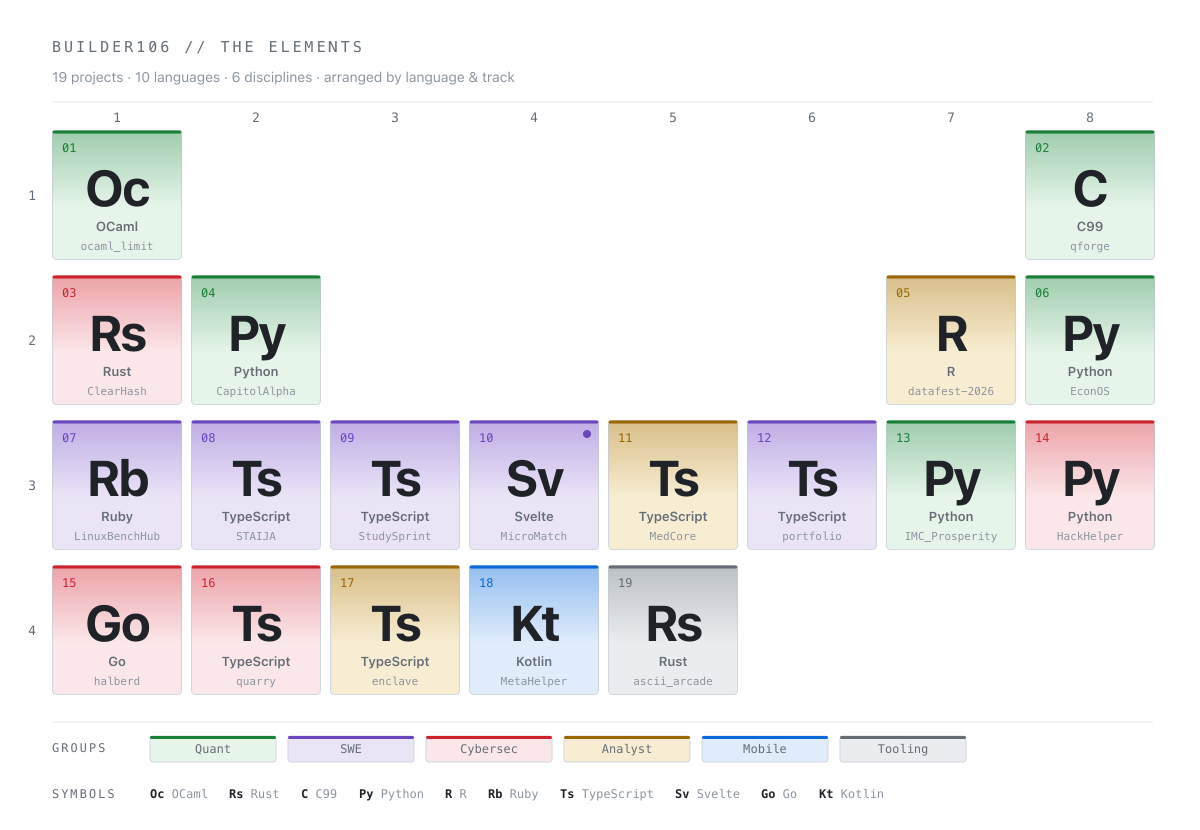
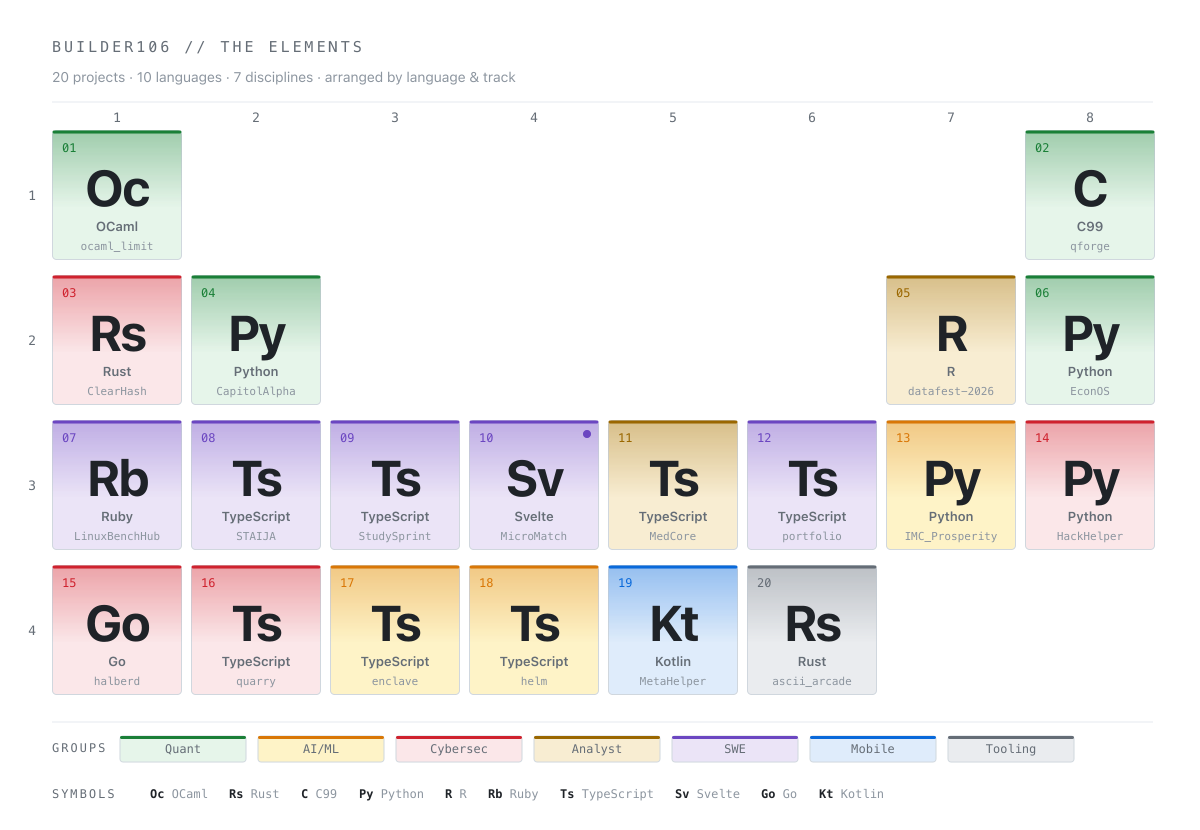
Categorize enclave, helm, and IMC_Prosperity under AI/ML discipline

diff --git a/assets/gen_cells.py b/assets/gen_cells.py
@@ -26,13 +26,14 @@ CELLS = [
     (2, 3, 10, "Sv", "Svelte",     "MicroMatch",     "W"),
     (2, 4, 11, "Ts", "TypeScript", "MedCore",        "A"),
     (2, 5, 12, "Ts", "TypeScript", "portfolio",      "W"),
-    (2, 6, 13, "Py", "Python",     "IMC_Prosperity", "Q"),
+    (2, 6, 13, "Py", "Python",     "IMC_Prosperity", "L"),
     (2, 7, 14, "Py", "Python",     "HackHelper",     "Y"),
     (3, 0, 15, "Go", "Go",         "halberd",        "Y"),
     (3, 1, 16, "Ts", "TypeScript", "quarry",         "Y"),
-    (3, 2, 17, "Ts", "TypeScript", "enclave",        "A"),
-    (3, 3, 18, "Kt", "Kotlin",     "MetaHelper",     "M"),
-    (3, 4, 19, "Rs", "Rust",       "ascii_arcade",   "T"),
+    (3, 2, 17, "Ts", "TypeScript", "enclave",        "L"),
+    (3, 3, 18, "Ts", "TypeScript", "helm",           "L"),
+    (3, 4, 19, "Kt", "Kotlin",     "MetaHelper",     "M"),
+    (3, 5, 20, "Rs", "Rust",       "ascii_arcade",   "T"),
 ]
 
 REPO_NAME = {  # project_id -> actual repo name (slug)
@@ -51,6 +52,7 @@ REPO_NAME = {  # project_id -> actual repo name (slug)
     "halberd": "halberd",
     "quarry": "quarry",
     "enclave": "enclave",
+    "helm": "helm",
     "MetaHelper": "meta-helper",
     "ascii_arcade": "ascii-arcade",
 }
@@ -61,6 +63,7 @@ NOW_PROJECT = "MicroMatch"
 # (label, dark_accent, light_accent, dark_cellbg, light_cellbg)
 DISC = {
     "Q": ("Quant",    "#3fb950", "#1a7f37", "#0d2a17", "#e6f5ea"),
+    "L": ("AI/ML",    "#f0883e", "#d97706", "#2c1a08", "#fef3c7"),
     "Y": ("Cybersec", "#f85149", "#cf222e", "#2e1416", "#fbe7e9"),
     "A": ("Analyst",  "#d29922", "#9a6700", "#2e2208", "#f8edd2"),
     "W": ("SWE",      "#a78bfa", "#6b46c1", "#1c1340", "#ebe4f7"),
@@ -193,7 +196,7 @@ def unified_svg(theme):
 
     # Header
     out.append(f'  <text x="52" y="52" font-family="ui-monospace, SFMono-Regular, Menlo, monospace" font-size="15" fill="{muted}" letter-spacing="3">BUILDER106  //  THE ELEMENTS</text>')
-    out.append(f'  <text x="52" y="82" font-family="-apple-system, BlinkMacSystemFont, Inter, system-ui, sans-serif" font-size="14" fill="{faded}">19 projects  ·  10 languages  ·  6 disciplines  ·  arranged by language &amp; track</text>')
+    out.append(f'  <text x="52" y="82" font-family="-apple-system, BlinkMacSystemFont, Inter, system-ui, sans-serif" font-size="14" fill="{faded}">20 projects  ·  10 languages  ·  7 disciplines  ·  arranged by language &amp; track</text>')
     out.append(f'  <line x1="52" y1="102" x2="{W - 47}" y2="102" stroke="{chrome_rule}" stroke-width="1"/>')
 
     # Group labels (1..8 across the top of cell columns)
@@ -216,8 +219,8 @@ def unified_svg(theme):
         pulse_offset = -((num * 0.21) % 4)
         # Brightness wave: each cell phase-shifted by atomic number, 5s cycle
         wave_offset = -(((num - 1) * 0.25) % 5)
-        # Discipline spotlight: 6 disciplines × 2s slot in a 12s cycle
-        slot_map = {"Q": 0, "W": 1, "Y": 2, "A": 3, "M": 4, "T": 5}
+        # Discipline spotlight: 7 disciplines × 2s slot in a 14s cycle
+        slot_map = {"Q": 0, "L": 1, "Y": 2, "A": 3, "W": 4, "M": 5, "T": 6}
         slot = slot_map[disc]
         is_now = project == NOW_PROJECT
 
@@ -226,7 +229,7 @@ def unified_svg(theme):
         out.append(f'    <animate attributeName="opacity" from="0" to="1" begin="{reveal_delay:.2f}s" dur="0.55s" fill="freeze"/>')
         # Spotlight halo — sits behind the card, glows during this discipline's slot
         out.append(f'    <rect x="-4" y="-4" width="138" height="138" rx="8" fill="{accent}" opacity="0">')
-        out.append(f'      <animate attributeName="opacity" values="0;0.55;0.55;0;0" keyTimes="0;0.04;0.1;0.14;1" dur="12s" begin="{slot * 2}s" repeatCount="indefinite"/>')
+        out.append(f'      <animate attributeName="opacity" values="0;0.55;0.55;0;0" keyTimes="0;0.04;0.1;0.14;1" dur="14s" begin="{slot * 2}s" repeatCount="indefinite"/>')
         out.append(f'    </rect>')
         # Card
         out.append(f'    <rect x="0.5" y="0.5" width="129" height="129" rx="4" fill="{cardbg}" stroke="{border}" stroke-width="1"/>')
@@ -251,8 +254,8 @@ def unified_svg(theme):
     out.append(f'  <line x1="52" y1="{legend_y}" x2="{W - 47}" y2="{legend_y}" stroke="{chrome_rule}" stroke-width="1"/>')
     out.append(f'  <text x="52" y="{legend_y + 30}" font-family="ui-monospace, SFMono-Regular, Menlo, monospace" font-size="12" fill="{muted}" letter-spacing="2">GROUPS</text>')
 
-    chip_x, chip_y = 150, legend_y + 14
-    order = ["Q", "W", "Y", "A", "M", "T"]
+    chip_x, chip_y = 120, legend_y + 14
+    order = ["Q", "L", "Y", "A", "W", "M", "T"]
     for code in order:
         name, da, la, dbg, lbg = DISC[code]
         accent = da if is_dark else la
